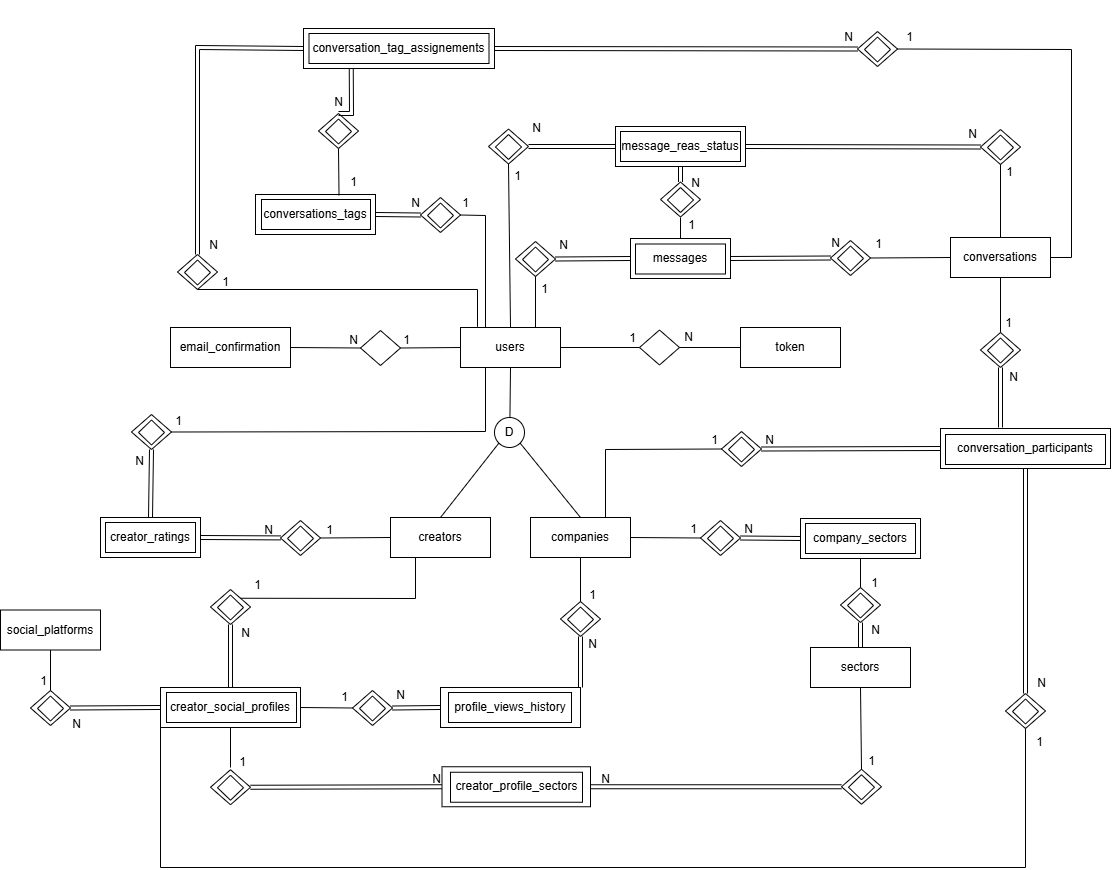
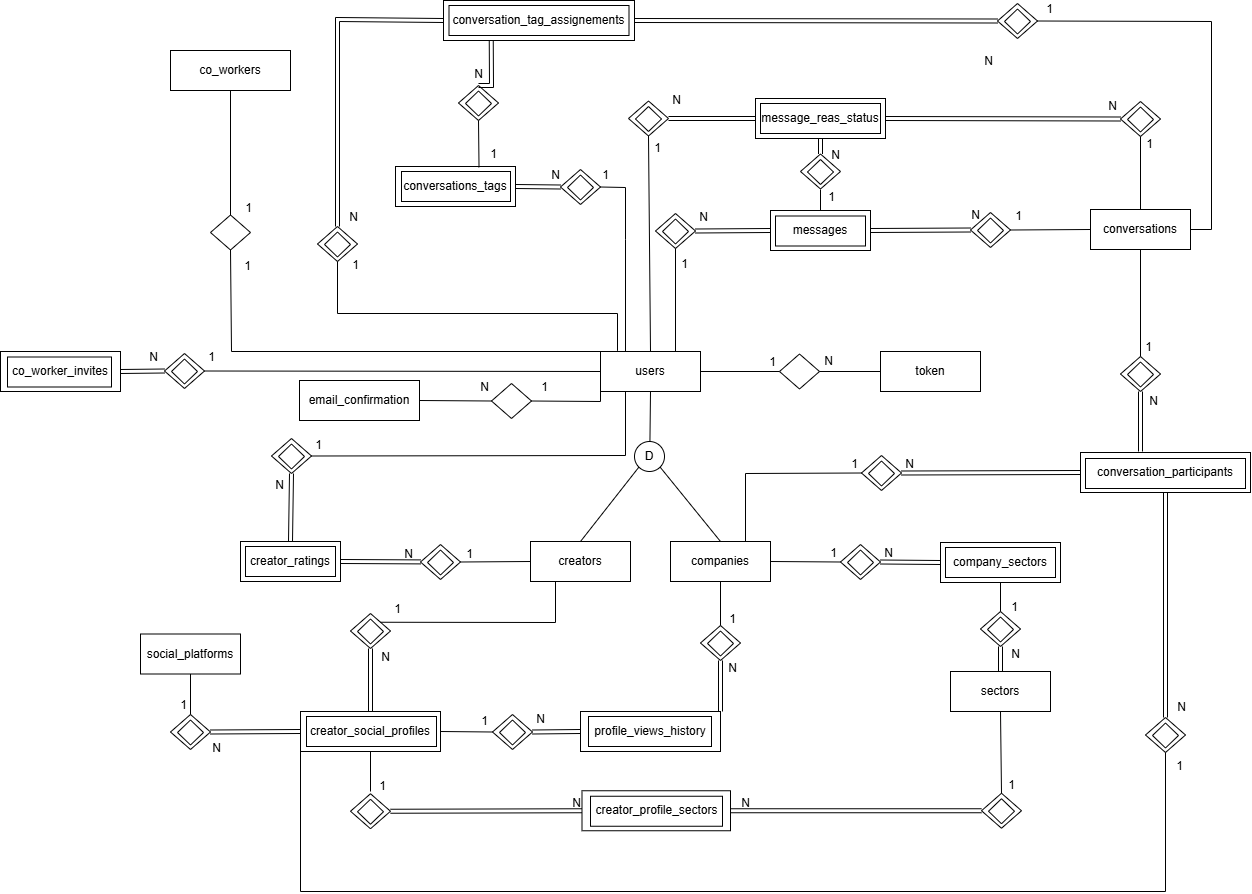
Last Version with the coworker

diff --git a/chapters/abstract.tex b/chapters/abstract.tex
@@ -1,2 +1,2 @@
 \chapter*{Abstract}
-\paragraph{}This report presents the design and implementation of Hubly, a web application developed as part of the course \textit{Project and Seminar}. The project addresses the lack of centralized information in influencer marketing workflows, where companies and digital content creators often rely on separate social networks, messaging platforms and email channels to discover contacts, negotiate collaborations and track partnership status. This fragmentation makes it difficult to compare opportunities, preserve communication context and manage multiple outreach processes in a consistent way. The proposed solution, Hubly, aims to address this limitation providing a centralized environment where users can register either as companies or as creators. Creator accounts are organized through platform-specific social profiles (for example, a YouTube or Instagram account), allowing the same creator to manage multiple profiles according to their real presence across platforms. Each social channel is represented independently, with its own audience information, content sectors and commercial conditions. Companies and creators can search for each other using criteria such as sector, platform, audience size, price range, company size and country, making the discovery process more structured and aligned with each user’s objectives. In addition, Hubly provides internal conversations associated with the relevant company or creator social profile, ensuring that communication remains linked to the context of a potential partnership. To support organization and transparency, the system includes private conversation tags, profile-view history, creator ratings, availability status, verified accounts and a recommendation mechanism based on previous user interactions. The resulting prototype includes a structured basis for managing company-creator interactions within a single web-application, reducing dependence on external channels and supporting more organized collaboration workflows.
+\paragraph{}This report presents the design and implementation of Hubly, a web application developed as part of the course \textit{Project and Seminar}. The project addresses the lack of centralized information in influencer marketing workflows, where companies and digital content creators often rely on separate social networks, messaging platforms and email channels to discover contacts, negotiate collaborations and track partnership status. This fragmentation makes it difficult to compare opportunities, preserve communication context and manage multiple outreach processes in a consistent way. The proposed solution, Hubly, aims to address this limitation providing a centralized environment where users can register either as companies or as creators. Creator accounts are organized through platform-specific social profiles (for example, a YouTube or Instagram account), allowing the same creator to manage multiple profiles according to their real presence across platforms. Each social channel is represented independently, with its own audience information, content sectors and commercial conditions. Companies and creators can search for each other using criteria such as sector, platform, audience size, price range, company size and country, making the discovery process more structured and aligned with each user’s objectives. In addition, Hubly provides internal conversations associated with the relevant company or creator social profile, ensuring that communication remains linked to the context of a potential partnership. To support organizational needs, Hubly introduces collaborative team management, enabling multiple users from the same organization to manage and interact with the platform under a shared corporate account. Furthermore, to ensure transparency and system accountability, an audit logging mechanism was implemented, providing a record of critical operations performed within the application. The resulting prototype delivers a robust environment for managing company-creator interactions, reducing dependence on external channels and facilitating more organized, scalable, and transparent collaboration workflows.

diff --git a/chapters/conclusion.tex b/chapters/conclusion.tex
@@ -6,6 +6,8 @@ Developing Hubly allowed us to apply and expand the theoretical knowledge acquir
 
 The implementation of Hubly required addressing several software engineering and architectural challenges. One relevant aspect was the design of the relational database schema, where a single user can act as a company or as a creator with multiple social profiles. Each social profile required its own metadata, messaging context and private conversation tags. Another important component was the implementation of multi-criteria search mechanisms for both \emph{CreatorSearchInputModel} and \emph{CompanySearchInputModel}, allowing users to filter results according to sectors, price ranges, audience size, company size and location. In addition, the internal messaging system was designed to associate conversations with specific company or creator social profiles, rather than only with generic user accounts. The system also includes profile-view history and recommendation logic, which provide a basis for suggesting companies or creator social profiles according to previous interactions.
 
-Looking forward, Hubly could be extended in several ways. Future work may include the integration of social media APIs, such as Meta and YouTube APIs, to support audience verification, metric collection and demographic data retrieval. Another possible improvement would be the implementation of a multi-user collaboration system, allowing marketing or management teams to administer the same company or creator profile. To support this type of shared access, concurrency control mechanisms, such as optimistic locking, could be introduced to prevent conflicts when multiple users modify the same information. An audit logging system could also be added to record relevant user actions, including the user responsible for the action, the affected area of the application and the corresponding timestamp.
+Another relevant component was the implementation of coworking functionality, which allows profile owners to invite other users to collaborate within the same company or creator workspace. This feature supports shared profile management through coworking invitations, invitation status tracking and coworker access validation. The system also includes audit logs to record relevant actions performed within shared workspaces, contributing to traceability and allowing profile owners to monitor activity associated with their profiles.
 
-Overall, Hubly provides a structured solution for supporting interactions between companies and digital creators. By centralizing profile discovery, profile-based conversations and private negotiation tags, the system reduces dependence on scattered external communication channels. The final prototype demonstrates how a web application can support company-creator partnerships through organized search, communication and interaction tracking workflows.
+Looking forward, Hubly could be extended in several ways. Future work may include the integration of social media APIs, such as Meta and YouTube APIs, to support audience verification, metric collection and demographic data retrieval. Another possible improvement would be the introduction of more detailed permission levels within coworking teams, allowing different users to have different access rights depending on their role. To support more complex collaborative scenarios, concurrency control mechanisms, such as optimistic locking, could also be introduced to prevent conflicts when multiple users modify the same information.
+
+Overall, Hubly provides a structured solution for supporting interactions between companies and digital creators. By centralizing profile discovery, profile-based conversations, private negotiation tags, coworking features and audit logs, the system reduces dependence on scattered external communication channels and supports more organized collaboration workflows. The final prototype demonstrates how a web application can support company-creator partnerships through search, communication, shared profile management and interaction tracking.

diff --git a/chapters/introduction.tex b/chapters/introduction.tex
@@ -17,7 +17,7 @@ A central aspect of the solution is the distinction between a creator and the cr
 
 Companies are represented through company profiles containing information relevant to discovery and contact. Creators, on the other hand, can organize their activity through one or more social profiles. Based on these entities, Hubly supports filtered search, allowing companies and creators to discover potential partners according to criteria such as sector, platform, audience size, price range, company size and country.
 
-The solution also includes internal conversations associated with company or creator social profile. This allows communication to remain connected to the specific context of a possible partnership, instead of being distributed across external channels, and in the messaging to support the management of several simultaneous contacts, the system provides private conversation tags, allowing each user to classify conversations according to their own workflow. In addition, Hubly includes profile-view history, creator ratings, availability status, verified accounts and recommendations based on previous users search.
+The solution also includes internal conversations associated with company or creator social profile. This allows communication to remain connected to the specific context of a possible partnership, instead of being distributed across external channels, and in the messaging to support the management of several simultaneous contacts, the system provides private conversation tags, allowing each user to classify conversations according to their own workflow. In addition, Hubly includes profile-view history, creator ratings, availability status, verified accounts, and a recommendation mechanism based on previous user searches. To support collaborative workflows, the system features a team-management module, enabling multiple users from the same organization, such as a marketing team or a professional agency, to interact with the platform under a shared corporate account through an invitation-based access model. Finally, to ensure operational transparency and data integrity, the system incorporates an audit logging mechanism, providing a reliable record of critical operations performed within the organization's account.    
 
 \begin{figure}[H]
     \centering
@@ -31,10 +31,13 @@ Hubly can be used in different scenarios involving companies and digital content
 \begin{enumerate}
     \item A creator registers in the system and creates one or more social profiles, each associated with a specific platform, such as Instagram, YouTube, TikTok and more.
     \item A company registers in the system and creates its company profile, including information such as its sectors, company size and country headquarters.
+    \item The owner of a company or creator profile may invite coworkers to collaborate within the same profile environment.
+    \item After accepting the invitation, coworkers can access the shared workspace according to their assigned role, allowing multiple users to manage communication and partnership-related activities under the same company or creator profile.
     \item The company searches for creator social profiles using filters such as platform, sector, audience size and price range.
     \item The company selects a creator social profile and initiates an internal conversation.
     \item During the negotiation process, each user can assign private tags to the conversation, according to their own workflow.
     \item The system stores profile views, which may later be used to support recommendations.
+    \item The system records relevant actions in audit logs, allowing profile owners to track activity performed within the shared workspace.
     \item After an interaction or collaboration, users may rate creators, contributing to the reputation information available in the system.
 \end{enumerate}
 

diff --git a/sections/backend_structure.tex b/sections/backend_structure.tex
@@ -71,11 +71,11 @@ The process is organized into the following steps:
 \begin{enumerate}
 \item \textbf{Token extraction:} The filter obtains the authentication token from the incoming HTTP request. Depending on the client flow, the token may be read from the request headers or from the application cookies.
 
-\item \textbf{Token validation:} The \texttt{TokenProcessor} decrypts and evaluates the structural integrity, signature, and expiration date of the extracted token, ensuring that the current session is active and untampered with.
+\item \textbf{Token validation:} The \texttt{TokenProcessor} decrypts and evaluates the structural integrity, signature, and expiration date of the extracted token, ensuring that the current session is active and untampered with. Apart of that, it checks, in case of the controller method having a AuthenticedCoWorker parameter, if the token came from an CoWorking user, or an admin user. 
 
 \item \textbf{Account status validation:} After the token is validated, the filter also verifies domain-specific access conditions. In Hubly, this includes checking whether the user's email address has been confirmed. If the email is not confirmed, the request is rejected with a \texttt{403 Forbidden} response, following the Problem Details response format.
 
-\item \textbf{Authenticated user binding:} When all validation steps succeed, the filter creates an \texttt{AuthenticatedUser} object containing the resolved user identity. This object is stored in \texttt{HttpContext.Items}, making it available during the remaining execution of the request. A custom \texttt{AuthenticatedUserModelBinder} is then used to bind this object directly to controller action parameters when required.
+\item \textbf{Authenticated user binding:} When all validation steps succeed, the filter creates an \texttt{AuthenticatedUser} object (and in case of, an \texttt{AuthenticatedCoWorker} object) containing the resolved user identity. This objects are stored in \texttt{HttpContext.Items}, making them available during the remaining execution of the request. A custom \texttt{AuthenticatedUserModelBinder} is then used to bind this objects directly to controller action parameters when required.
 
 \end{enumerate}
 
@@ -94,7 +94,8 @@ This approach provides a consistent way to apply authentication checks across pr
 
 \item \textbf{Separation of concerns:} Controller actions do not need to manually validate the authentication token. This allows controllers to focus on the application operation they are responsible for.
 
-\item \textbf{Declarative Security:} Security boundaries are explicitly declared via controller method signatures using the \texttt{AuthenticatedUser} parameter. This self-documenting pattern greatly improves readability and simplifies architectural security audits.
+
+\item \textbf{Declarative Security:} Security boundaries are explicitly declared via controller method signatures using the \texttt{AuthenticatedUser} and \texttt{AuthenticatedCoWorker} parameters. This self-documenting pattern greatly improves readability and simplifies architectural security audits.
 
 \end{itemize}
 
@@ -171,3 +172,4 @@ Figure~\ref{fig:email-service-structure} illustrates the email confirmation work
 \end{figure}
 
 This process ensures that users can only access protected functionality after confirming the email address associated with their account.
+

diff --git a/chapters/architecture.tex b/chapters/architecture.tex
@@ -11,6 +11,8 @@ Figure \ref{fig:architecture} illustrates the main architectural components of H
 
 \section{Architecture Overview}
 
+TODO, CLIENT SIDE??
+
 \paragraph{}Hubly follows a client-server architecture. Users interact with the system through a web browser, which loads the frontend application and sends requests to the backend API. The backend is responsible for processing application operations, enforcing business rules and accessing persistent data stored in the relational database.
 
 A reverse proxy is placed between the browser and the internal application services. Its role is to receive incoming HTTP requests and route them to the appropriate component. Requests related to the web interface are forwarded to the frontend application, while API requests are forwarded to the backend service. The backend is the only component that communicates directly with the database.
@@ -59,7 +61,7 @@ js-cookie~\cite{jscookie} & JavaScript library for handling browser cookies. & U
 \end{table}
 
 \subsection{Backend}
-\paragraph{}The backend API is responsible for processing the operations requested by the frontend. It implements the application logic related to users, companies, creators, social profiles, search, conversations, tags, ratings and recommendations.
+\paragraph{}The backend API is responsible for processing the operations requested by the frontend. It implements the application logic related to users, companies, creators, social profiles, search, conversations, tags, ratings, recommendations, coworking teams, invitations and audit logs.
 
 The backend was developed using ASP.NET Core~\cite{aspnetcore} and exposes a REST API consumed by the frontend application. It also performs authentication and authorization checks, validates business rules and coordinates access to persistent data. Database operations are abstracted through Entity Framework Core, preventing the frontend from interacting directly with the database.
 
@@ -102,7 +104,7 @@ Items = success.Items.Adapt<List>(),
 
 \subsection{Database}
 
-\paragraph{}The database component is responsible for storing the persistent data used by the system. Hubly uses a PostgreSQL~\cite{postgreSql} relational database to store information about users, companies, creators, social profiles, sectors, conversations, messages, tags, ratings, authentication data and profile-view history.
+\paragraph{}The database component is responsible for storing the persistent data used by the system. Hubly uses a PostgreSQL~\cite{postgreSql} relational database to store information about users, companies, creators, social profiles, sectors, conversations, messages, tags, ratings, authentication data, profile-view history, coworkers, coworking invitations.
 
 The database is not directly accessible from the frontend or from the browser. All interactions with the database are performed by the backend API. In the containerized environment, the database runs in the hubly-db container and is connected only to the db-net network.
 

diff --git a/sections/database_structure.tex b/sections/database_structure.tex
@@ -3,7 +3,7 @@
 \begin{figure}[ht]
     \centering
     \makebox[\textwidth][c]{
-    \includegraphics[width=0.9\textwidth]{./img/SimpleERModel.png}
+    \includegraphics[width=1\textwidth]{./img/SimpleERModel.png}
     }
     \caption{Database Structure without attributes, Check complete ER Model on Appendix \ref{fig:er_model}}
     \label{fig:database_structure}
@@ -66,6 +66,10 @@ The relational model was designed to support the functional and structural needs
     \item \textbf{CONVERSATION\_TAGS}: Allows users to create custom categorization labels for their communication chats. Each tag is owned by a specific \texttt{user\_id} and defined by a name and a \texttt{color\_hex}, enabling a personalized tag experience. The \texttt{unique\_user\_tag\_name} constraint ensures that users do not define duplicate tags within their own workspace.
 
     \item \textbf{CONVERSATION\_TAG\_ASSIGNMENTS}: Implements the association between a conversation and the tags assigned by a specific user. The composite primary key ensures that each conversation-tag assignment is unique per user, while \texttt{updated\_at} provides the necessary audit trail for tag modifications.
+ 
+    \item \textbf{CO\_WORKERS}: Represents the relationship between a profile owner and a coworker user. Each record links a \texttt{user\_id}, corresponding to the coworker, to an \texttt{owner\_id}, corresponding to the user who owns the company or creator profile. The \texttt{joined\_at} attribute stores the date and time when the coworker joined the workspace. The \texttt{chk\_not\_self\_owner} constraint prevents a user from being registered as their own coworker, preserving the distinction between owner and coworker roles.
+
+    \item \textbf{CO\_WORKER\_INVITES}: Stores coworking invitations sent by profile owners to other users. Each invitation includes the \texttt{owner\_id}, the invited user's email address (\texttt{co\_worker\_email}), the invitation status, the creation timestamp and the expiration date. The \texttt{status} attribute is constrained to the values \texttt{WAITING}, \texttt{ACCEPTED} and \texttt{REJECTED}, allowing the system to track the invitation lifecycle. The \texttt{unique\_pending\_invite} constraint prevents duplicate invitations from the same owner to the same email address.
 
 \end{itemize}
 

diff --git a/sections/backend_functionalities.tex b/sections/backend_functionalities.tex
@@ -50,6 +50,18 @@ This ensures that actions such as creating a user record, generating an initial 
 \end{itemize}
 \end{itemize}
 
+\subsection{Coworking and Audit Logs}
+
+\paragraph{}The backend includes coworking functionality, allowing company and creator profile owners to invite other users to collaborate within the same profile environment. This feature supports shared management of company profiles or creator social profiles, enabling multiple users to access and manage the same workspace.
+
+The coworking workflow is based on invitations. A profile owner can invite another user by email to join a coworking team. The system stores the invitation and its current status, such as \texttt{WAITING}, \texttt{ACCEPTED} or \texttt{REJECTED}. The invited user can accept or reject the invitation, while the profile owner can cancel pending invitations or remove coworkers from the team.
+
+Access to shared profile operations is validated by the backend. When a user performs an operation within a company or creator profile, the system verifies whether the user is the profile owner or an authorized coworker. This validation prevents users from accessing or modifying profile data without permission.
+
+The backend also records relevant operations through audit logs. These logs store information about actions performed within a shared workspace, such as coworker invitations, invitation responses, coworker removal or other profile-related operations. Each log entry can include the user responsible for the action, the type of operation performed, the affected entity and the timestamp of the action.
+
+This functionality provides traceability within shared company and creator profiles, allowing profile owners to monitor relevant activity performed by different users in the same workspace.
+
 \subsection{History Tracking and Recommendations}
 \paragraph{}The backend stores profile-view history and uses this information, together with previous search parameters, to support recommendation features. This feature allows the system to generate dashboard recommendations using information from previous profile views and search parameters, helping users discover companies or creator social profiles related to their past interactions.
 \subsubsection{Recommendation Workflow}

diff --git a/chapters/system_requirements.tex b/chapters/system_requirements.tex
@@ -51,6 +51,21 @@
 
     \item Provide recommendations of companies or creator social profiles based on previous user interactions, such as searches and profile views.
 
+    \item Allow company and creator profile owners to invite other users, by email, to join their coworking team. 
+    
+    \item Allow invited users to accept or reject coworking invitations. 
+    
+    \item Maintain the status of coworking invitations, such as WAITING, ACCEPTED and REJECTED. 
+    
+    \item Allow profile owners to cancel pending coworking invitations. 
+    
+    \item Allow profile owners to remove coworkers from their coworking team. 
+    
+    \item Allow coworkers to access and manage the associated company or creator profile according to their role or permissions. 
+    
+    \item Record relevant actions performed within a shared company or creator profile through audit logs. 
+    
+    \item Allow profile owners to view audit log information related to actions performed in their shared workspace.
 \end{itemize}
 
 \section{Non-Functional Requirements}

diff --git a/digitalManagerG11.tex b/digitalManagerG11.tex
@@ -164,7 +164,7 @@ Degree in Computer Science and Engineering\\[20mm]
 
 \begin{figure}[H]
     \centering
-    \includegraphics[width=1.0\textwidth, angle=90]{./img/ER_Model.png}
+    \includegraphics[width=1.1\textwidth]{./img/ERModel.png}
     \caption{Complete ER Model}
     \label{fig:er_model}
 \end{figure}
